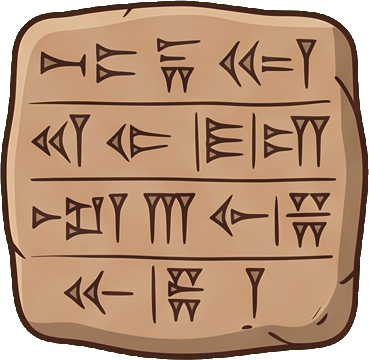
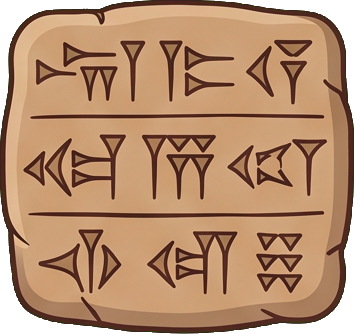
Hoja B v2 generada desde el guion (week_w48), reloj y calendario corregidos por código; LESSONS.md y PLAN.md con el orden guion visual -> hoja y mejora automática; créditos
Claude-Session: https://claude.ai/code/session_01NybaBGmSxbN7p6zKV1L1YF

diff --git a/growth/storyboards/2026-11-28_week_7_days.md b/growth/storyboards/2026-11-28_week_7_days.md
@@ -1,6 +1,6 @@
 # Guion visual: «Why does a week have seven days?» (28/11/2026)
 
-Formato `explainer`, categoría historia, longitud estándar (control, experimento B2-length), cierre con puente de bucle (sin `real_life`: el cierre es «enjoy your weekend»). Segundo guion visual escena a escena (23/11/2026). Las ilustraciones ya están pagadas y en la biblioteca (`week_w48`, 918 créditos); **este guion no gasta nada**.
+Formato `explainer`, categoría historia, longitud estándar (control, experimento B2-length), cierre con puente de bucle (sin `real_life`: el cierre es «enjoy your weekend»). Segundo guion visual escena a escena (23/11/2026). Las ilustraciones (`week_w48`) se generaron **después de este guion**, a partir de su inventario (versión v2, 23/11, 918 créditos; la primera hoja, hecha con la lista del plan antes del guion, se descartó). Este documento no gasta nada.
 
 ## 1. Guion (190 palabras; duración estimada ≈ 72,8 s con palabras/2,77 + 4,2; tope duro 210)
 1. Why does a week have seven days?
@@ -35,31 +35,29 @@ Zona segura: ilustraciones en y 740-1370, **nada a la derecha de x ≈ 880**, ni
 | # | Tiempo | Narración | Qué aparece | Ilustración | Tamaño | Movimiento |
 |---|---|---|---|---|---|---|
 | HOOK | 0.0-2.7 s | Why does a week have seven days? | Portada (`cover.py`, rayos del color de historia). Protagonista: la página de calendario con 7 columnas y un «?» grande (código) encima. Título: WEEK / 7 days? | `week_w48:wall_calendar` | L (≈420 px, centro, y 860-1300) | Vaivén ≤10 px; el «?» entra a los 0,3 s |
-| 2 | 2.7-8.4 s | A day follows the Sun. A month follows the Moon. A year follows the seasons. | Tres elementos en fila, uno por frase, cada uno con su rótulo: Sol (DAY), Luna (MONTH) y un círculo de estaciones dibujado en código (YEAR). | `moon_items:sun; moon_items:moon_near` + círculo en código | M ×3 (≈230 px, x < 880) | Cada uno entra en su frase (escalonado) |
-| 3 | 8.4-14.2 s | But nothing in the sky takes seven days. So where did the week come from? | El joven se encoge de hombros con signos «?» (código); la página de calendario, pequeña, queda a un lado. | `young_man:shrug; week_w48:wall_calendar` | Personaje L (≈560 px) + calendario S | Respiración; los «?» suben |
+| 2 | 2.7-8.4 s | A day follows the Sun. A month follows the Moon. A year follows the seasons. | Tres elementos en fila, uno por frase, cada uno con su rótulo: Sol (DAY), Luna (MONTH) y la rueda de las cuatro estaciones (YEAR). | `moon_items:sun; moon_items:moon_near; week_w48:seasons_wheel` | M ×3 (≈230 px, x < 880) | Cada uno entra en su frase (escalonado) |
+| 3 | 8.4-14.2 s | But nothing in the sky takes seven days. So where did the week come from? | El joven se encoge de hombros con signos «?» (código); a un lado, el pergamino con el mapa de estrellas, pequeño: el cielo no marca ningún ciclo de 7. | `young_man:shrug; week_w48:star_chart` | Personaje L (≈560 px) + pergamino M (≈300 px) | Respiración; los «?» suben |
 | 4 | 14.2-19.5 s | Historians think it started in ancient Babylon, with sky-watchers who wrote on clay tablets. | Fondo de desierto/atardecer (código). El zigurat grande al fondo; delante, la tablilla de arcilla y la cabeza del babilonio pensando. | `week_w48:ziggurat; week_w48:clay_tablet; ancient_person:think` | Zigurat L (≈520 px) + tablilla M + busto M | La tablilla entra con rebote; el busto asiente |
-| 5 | 19.5-26.4 s | They tracked seven moving lights: the Sun, the Moon, and five planets you can see without a telescope. | Mitad 1 (hasta «moving lights»): la escena nocturna de Babilonia, grande. Mitad 2: encima, una fila de siete puntos de luz (código) que se convierten en Sol, Luna y los cinco planetas (pequeños, con su rótulo). | `week_w48:babylon_night_sky` (luego `moon_items:sun, moon_near; week_w48:mercury, venus, mars, jupiter, saturn`) | L (≈520 px) y luego 7 × S (≈110 px) | Los puntos se encienden de uno en uno con la cuenta de la voz (1-7) |
-| 6 | 26.4-31.0 s | Seven also fit the Moon. Its phases change about every seven days. | Las cuatro fases de la Luna en fila con una flecha «7 days» entre cada una (código) y una barra de 28 días dividida en 4. | `week_w48:moon_phases` (+ `moon_items:star` opcional) | Ancha (≈600 px, 1,3×; es un sprite de 458×101) | Las fases se encienden de izquierda a derecha |
+| 5 | 19.5-26.4 s | They tracked seven moving lights: the Sun, the Moon, and five planets you can see without a telescope. | Mitad 1 (hasta «moving lights»): la escena nocturna de Babilonia, grande. Mitad 2: la fila de siete astros (Sol, Luna, Mercurio, Venus, Marte, Júpiter, Saturno), una sola ilustración, con los números 1-7 encima (código). | `week_w48:babylon_night_sky` y luego `week_w48:seven_lights` | L (≈520 px) y luego ancha (≈860 px; sprite de 926×125) | Los números se encienden de uno en uno con la cuenta de la voz (1-7) |
+| 6 | 26.4-31.0 s | Seven also fit the Moon. Its phases change about every seven days. | Las cuatro fases de la Luna en fila con una flecha «7 days» entre cada una (código) y una barra de 28 días dividida en 4. | `week_w48:moon_phases` | Ancha (≈560 px, 1,3×; sprite de 436×92) | Las fases se encienden de izquierda a derecha |
 | 7 | 31.0-37.2 s | Then the Romans took over. They used an eight-day market week, until the planet week won. | Puesto del mercado romano con un contador «8 days» en el toldo (código); al decir «planet week won», cae sobre el contador un «7» amarillo y se tacha el 8. | `week_w48:market_stall` | L (≈480 px) | El 7 sustituye al 8 con un golpe |
 | 8 | 37.2-41.8 s | In 321 AD, Emperor Constantine made Sunday an official day of rest. | La moneda romana con el emperador de perfil, grande, y la etiqueta «321 AD». Un sol pequeño en el borde de la moneda al decir «Sunday». | `week_w48:roman_coin; moon_items:sun` | Moneda L (≈480 px) + sol S | La moneda gira un poco (balanceo ≤8°) |
-| 9 | 41.8-47.9 s | The names still carry the sky: Saturday is Saturn's day, Sunday the Sun's, Monday the Moon's. | Tres pastillas en fila: planeta Saturno + «SATURDAY», Sol + «SUNDAY», Luna + «MONDAY». Cada una aparece cuando se dice. | `week_w48:saturn; moon_items:sun; moon_items:moon_near` | M ×3 (≈230 px, x < 880) | Entran en escalón; la palabra del día resalta en amarillo |
-| 10 | 47.9-52.1 s | Spanish keeps even more. Martes is Mars, and viernes is Venus. | Dos pastillas: Marte + «MARTES», Venus + «VIERNES». Bandera no (sin logos). | `week_w48:mars; week_w48:venus` | M ×2 (≈300 px) | Entran de los lados |
-| 11 | 52.1-57.9 s | Not everyone liked it. In 1793, revolutionary France tried a ten-day week, with ten-hour days. | A la izquierda el calendario revolucionario (cinta tricolor y 10 columnas); a la derecha el reloj de pared. Rótulos «10-day week» y «10-hour day». | `week_w48:revolution_calendar; week_w48:decimal_clock` | M ×2 (≈330 px). El reloj es de 12 marcas: ver nota abajo | El reloj marca a saltos (código, 10 marcas pintadas encima) |
+| 9 | 41.8-47.9 s | The names still carry the sky: Saturday is Saturn's day, Sunday the Sun's, Monday the Moon's. | Tres pastillas en fila: planeta Saturno + «SATURDAY», Sol + «SUNDAY», Luna + «MONDAY». Cada una aparece cuando se dice. | `week_w48:saturn; moon_items:sun; moon_items:moon_near` | M ×3 (≈230 px, x < 880; Saturno mide 186 px: 1,25×) | Entran en escalón; la palabra del día resalta en amarillo |
+| 10 | 47.9-52.1 s | Spanish keeps even more. Martes is Mars, and viernes is Venus. | Dos pastillas: Marte + «MARTES», Venus + «VIERNES». Sin banderas (sin logos). | `week_w48:mars; week_w48:venus` | M ×2 (≈300 px) | Entran de los lados |
+| 11 | 52.1-57.9 s | Not everyone liked it. In 1793, revolutionary France tried a ten-day week, with ten-hour days. | A la izquierda el calendario revolucionario (cinta tricolor y 10 columnas); a la derecha el reloj de pared. Rótulos «10-day week» y «10-hour day». | `week_w48:revolution_calendar; week_w48:decimal_clock` | M ×2 (≈330 px). Reloj de 10 marcas y calendario de 10 columnas ya corregidos en el sprite | Las manecillas (código) avanzan a saltos |
 | 12 | 57.9-63.6 s | People hated the longer wait for a day off, and Napoleon dropped it in 1806. | El calendario revolucionario grande en el centro, con una cruz roja (código) que se dibuja al decir «dropped», y «1806» en amarillo. El joven, asustado, lo mira a un lado. | `week_w48:revolution_calendar; young_man:scared` | Calendario L (≈460 px) + personaje M | La cruz se dibuja en 0,4 s |
-| 13 | 63.6-69.0 s | So the week isn't written in nature. It's a very old habit that stuck. | Fondo de acento. La hamaca entre las palmeras, grande, y el joven contento sentado a un lado; el calendario de siete columnas pequeño. | `week_w48:weekend_hammock; young_man:happy` | Hamaca L (≈520 px) + personaje M | Balanceo suave de la hamaca |
+| 13 | 63.6-69.0 s | So the week isn't written in nature. It's a very old habit that stuck. | Fondo de acento. La hamaca entre las palmeras, grande, y el joven contento sentado a un lado. | `week_w48:weekend_hammock; young_man:happy` | Hamaca L (≈520 px) + personaje M | Balanceo suave de la hamaca |
 | 14 puente | 69.0-72.8 s | Enjoy your weekend, which brings us back to the question: | Vuelve la portada: el calendario de siete columnas en la MISMA posición, tamaño, rayos y ángulo que en el primer fotograma, sin subtítulo; el «?» aparece en la última palabra. | `week_w48:wall_calendar` (idéntico al gancho) | L (idéntico al gancho) | Último fotograma = primero |
 
-**Nota del reloj:** la ilustración `decimal_clock` salió con 12 marcas y no con 10. En la escena 11 se corrige en código: se tapa el aro con 10 marcas pintadas (o se dibuja un reloj vectorial de 10 marcas encima del sprite). Si queda feo, el reloj se regenera suelto (≈612 créditos a 2K sin referencia).
-**Nota del calendario revolucionario:** el sprite tiene unas 6 columnas en vez de 10; a 330 px no se aprecia, y el rótulo «10-day week» se pone en el texto.
+## 4. Inventario de ilustraciones: sacado de la tabla de escenas (no al revés)
+Una sola hoja 4x4 a 2K (`week_w48`, generada el 23/11 **después** del guion, 918 créditos). 16 celdas, todas usadas por alguna escena:
 
-## 4. Inventario de ilustraciones: ninguna hoja nueva
-Todo está ya en la biblioteca, generado el 23/11 en la hoja `week_w48` (4x4 a 2K, 16 sprites de ≈400 px):
-
-- **De la hoja `week_w48` (15 de 16 usados):** `wall_calendar` (gancho, escena 3, puente), `ziggurat`, `clay_tablet`, `babylon_night_sky`, `saturn`, `jupiter`, `mars`, `venus`, `mercury`, `moon_phases`, `market_stall`, `roman_coin`, `revolution_calendar`, `decimal_clock`, `weekend_hammock`.
-- **Sin usar:** `star_chart` (queda disponible; opcional en la escena 5 detrás de los siete puntos de luz).
-- **De bibliotecas anteriores:** `moon_items:sun`, `moon_items:moon_near`, `young_man` (shrug, scared, happy), `ancient_person:think`.
-- **En código (no son objetos):** círculo de estaciones, puntos de luz, flechas, barra de 28 días, contador «8 → 7», cruz roja, rótulos.
-- **Todas las ilustraciones de la hoja se amplían ≤1,3×** (sprites de ≈400 px, escenas de ≈300-520 px).
+- `wall_calendar` (gancho y puente), `seasons_wheel` (esc. 2), `star_chart` (esc. 3), `ziggurat` y `clay_tablet` (esc. 4), `babylon_night_sky` y `seven_lights` (esc. 5; la fila de siete astros salió como una sola ilustración), `moon_phases` (esc. 6), `market_stall` (esc. 7), `roman_coin` (esc. 8), `saturn` (recortado de `seven_lights`, esc. 9), `mars` y `venus` (esc. 10), `decimal_clock` y `revolution_calendar` (esc. 11-12), `weekend_hammock` (esc. 13).
+- De bibliotecas anteriores: `moon_items:sun`, `moon_items:moon_near`, `young_man` (shrug, scared, happy), `ancient_person:think`.
+- En código: números 1-7, flechas, barra de 28 días, contador «8 → 7», cruz roja, manecillas y rótulos.
+- Júpiter y Mercurio ya no son ilustraciones sueltas: ninguna escena los necesita por separado.
+- **Conteos corregidos en el sprite por código** (Gemini no cuenta): el reloj tiene exactamente 10 marcas y el calendario revolucionario 10 columnas × 3 filas. Un intento de corregirlos editando la hoja con IA (609 créditos) salió mal y se descartó.
+- Defectos conocidos: la moneda lleva letras pintadas ilegibles (no se ven a su tamaño en pantalla); `saturn` mide solo 186 px.
 
 ## 5. Reglas que cumple el guion visual
 - Un protagonista por escena; cada objeto significa algo (nada de relleno).

diff --git a/PLAN.md b/PLAN.md
@@ -14,6 +14,8 @@ Goal: decide the reels of the coming week in advance, so the owner can generate 
 4. **Characters, objects and illustrations:** for each reel, list EVERYTHING it needs to show the story well: characters (people, animals), objects (props, tools, food, vehicles, instruments...) and illustrations (scenes, landscapes, diagrams, places, key visuals). Do not limit the list to characters. Match each item against the library (by name or tags). An item that is not there is `missing`. Anything that can be reasonably drawn in code as a simple shape (a plain circle, arrow or chart) does not need a sheet; anything that must look recognisable and in the cat's style does.
 4b. **On-screen size of each missing item (decided 12/11/2026, owner's rule: think it BEFORE, then make them bigger).** Library sprites from a 4x4 sheet measure only ~150-240 px and look soft above ~1.3-1.5x. For every missing item decide how it will be shown: `small` (a prop next to the story, ~1.3x or less) or `large` (a protagonist: a full skeleton, a person, a scene or anything that will fill most of the 645 px illustration band, i.e. needs more than ~300 px on screen). Large items do NOT go on the normal 4x4 sheet: they go on a **2x2 sheet of at most 4 items** (each cell ~500 px) with the extra line "Draw each item large, filling most of its cell, with a clear margin of green around it". Thin, tall or detailed items (skeletons, X-rays, machines with small parts) count as `large` by default. Record it in `week_plan.json` as `"large": [...]` next to `missing`.
 5. **Prompts:** for every missing item, write the Gemini prompts to `growth/week_prompts.md`, following `factory/library/PROMPT.md` and the copy-paste format below. Characters: two sheets (movement, acting), with the right cycle (walk cycle for people, run cycle for four-legged animals, flying or swimming for others). Objects and illustrations: one 4x4 sheet of up to 16 items (she asked for this on 4/11/2026: Gemini ignores 3x3), with the margin and style rules of "Object / illustration sheet" in PROMPT.md; group the `small` items of the same reel on one sheet to keep the owner's work low, and give every `large` item a place on a 2x2 sheet (step 4b). Tell her to attach a clean style reference: a 4x4 contact sheet made from the library crops of the latest good sheet (not the original `wifi_objects/sheet1.png`, whose edges are badly cut).
+5b. **Guion visual primero, hojas después (decidido el 23/11/2026; sustituye a 4, 4b y 5 donde se contradigan).** Para cada reel, en este orden: (1) guion de voz y datos verificados; (2) **guion visual escena a escena** en `growth/storyboards/<fecha>_<tema>.md` (formato de `2026-11-28_week_7_days.md`: tabla con qué aparece, qué ilustración exacta, tamaño y movimiento); (3) **inventario de ilustraciones sacado de esa tabla** (lo que no usa ninguna escena no se genera; lo que usa una escena y no existe en la biblioteca se genera); (4) **una sola hoja 4x4 a 2K por reel** (≈918 créditos con una referencia), con el prompt construido a partir de `factory/library/LESSONS.md` (receta y reglas aprendidas). Nunca generar hojas con una lista hecha antes del guion. Cada entrada de `week_plan.json` lleva `storyboard` con la ruta del guion visual.
+5c. **Mejora automática de las imágenes.** `factory/library/LESSONS.md` es la memoria de lo que sale mal en las hojas. Antes de escribir un prompt de hoja, léelo y aplica todas sus reglas. Después de generar y recortar una hoja, pasa su lista de comprobación (celdas llenas, sin caras ni texto pintado, elementos con número contados, todo lo del guion presente y nada sobrante), corrige por código lo que sea de conteo, y **añade a LESSONS.md una línea por cada defecto nuevo** (fecha, qué pasó, regla). No edites la hoja entera con IA (cuesta 609 y rompe la rejilla); si una hoja sale mal, regenérala entera con el prompt corregido, preguntando antes a la dueña porque gasta créditos. Apunta cada gasto en `growth/credits.json`.
 6. Write `growth/week_plan.json` as `[{"date", "topic", "category", "format", "event"?, "characters": [...], "objects": [...], "illustrations": [...], "missing": [...], "experiment"?: {"batch", "test", "option", "role"}}]`, then commit and push. Edit only `growth/`.
 7. **Notification in Spanish, at most 7 lines:** the week's dates and topics in one line each, then one line "Experimento: <variable>, <opción> en <fechas> (se mide a 7 días)" (or "Sin experimento esta semana"), then "Falta por generar: X, Y" listing characters, objects and illustrations (or "No falta nada"), marking with "(GRANDE)" every item of step 4b that needs the 2x2 big sheet and adding the words "hojas grandes 2x2" if there is any, then "Los prompts están en growth/week_prompts.md o pídemelos en el chat." Never generate images yourself and never spend ElevenLabs credits.
 

diff --git a/factory/library/LESSONS.md b/factory/library/LESSONS.md
@@ -1,0 +1,28 @@
+# Lecciones de las hojas de ilustraciones (se actualiza sola)
+
+Lo lee el plan semanal antes de escribir los prompts de las hojas, y lo amplía cada vez que una hoja sale con defectos (ver `PLAN.md`, paso de hojas). Una línea por lección: qué pasó, fecha, regla que se aplica desde entonces.
+
+## Orden obligatorio
+1. Guion de voz → 2. guion visual escena por escena (`growth/storyboards/`) → 3. inventario sacado de esa tabla → 4. prompt de la hoja. **Nunca** al revés: una ilustración que ninguna escena usa sobra, y una escena sin ilustración se anota como pendiente.
+2. Una hoja 4x4 a 2K por vídeo. Si hay que regenerar, se regenera la hoja entera con el inventario corregido, no se edita.
+
+## Receta que funciona (23/11/2026)
+- UNA sola referencia: `growth/style_ref_objects_4x4.png`, «úsala SOLO para el estilo, no dibujes nada de lo que aparece». Con varias referencias o un collage se contamina y salen blancos y figuras repetidas.
+- Rejilla: «exactamente 4 columnas × 4 filas de celdas cuadradas idénticas, un elemento por celda, ninguno más alto ni ancho que su celda, cada uno una sola vez, fondo verde puro #00FF00 en todas partes, sin blanco, marcos ni divisores».
+- Tamaño: BIG ≈85 % de la celda, el resto ≈65 %.
+- Coste a 2K con una referencia: 918 créditos. Editar la hoja con IA cuesta 609 y NO es fiable (devuelve 16:9 y rompe la rejilla).
+
+## Lecciones
+- 23/11 · Gemini dibuja caras sonrientes en objetos (taza) → pedir «los objetos NO tienen cara, ojos ni sonrisa».
+- 23/11 · Pinta letras en los objetos («DAILY NEWS», inscripción de la moneda) → pedir «sin texto, letras ni números pintados»; las etiquetas van en la capa de texto.
+- 23/11 · **No sabe contar**: relojes con 12 marcas aunque pidas 10; calendarios con 7 columnas aunque pidas 10. Cualquier elemento cuyo número importa (marcas, columnas, dedos, pasos) se corrige por código sobre el sprite (reloj y rejilla en `week_w48`), no se confía en el prompt.
+- 23/11 · Una ilustración «ancha» (fila de varios objetos) ocupa dos celdas y se come la vecina; y sale sobre barra NEGRA. Si se pide una tira, contar que ocupa 2 celdas, recortarla por manchas (`library.py` `add_blobs`) y quitar el negro conectado al borde. Los elementos de la tira se pueden recortar como sprites sueltos (Saturno salió así, pequeño: 186 px).
+- 23/11 · Sombras o halo verde alrededor de un objeto claro (huellas): la limpieza automática por umbral las destruye; regenerar el objeto con «sin brillo ni halo detrás» en vez de limpiar.
+- 23/11 · Personajes enteros cortados en la cintura cuando pedimos una escena con persona: describirlos «de rodillas para arriba, entero dentro de UNA celda».
+
+## Comprobación de cada hoja (checklist antes de recortar)
+1. 16 celdas llenas, cada elemento una vez, ninguno cortado ni tocando otro.
+2. Sin caras en objetos, sin texto pintado, sin blanco.
+3. Elementos con número (marcas, columnas, pasos): contados; si fallan, corregir por código.
+4. Todo lo que pide el guion visual está y nada sobra.
+5. Después de recortar: anotar aquí lo que haya fallado, con fecha y regla.
